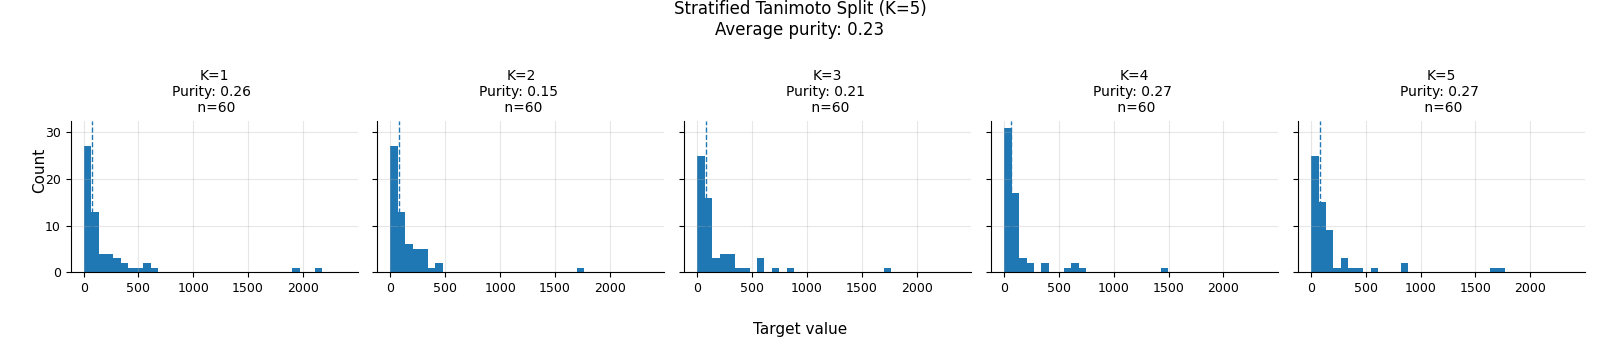
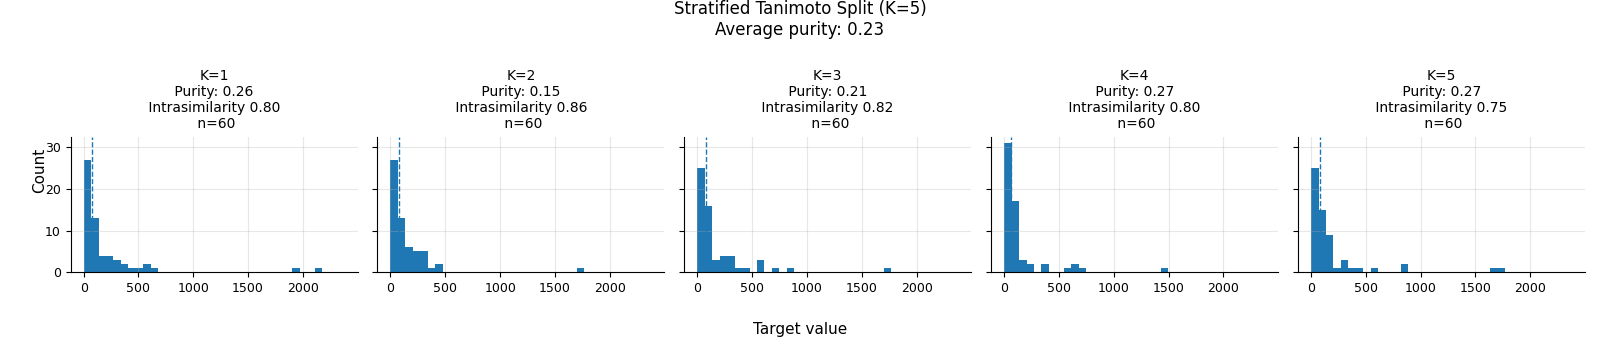
Added computation of the intrasimilarity, fixed the plot.

diff --git a/StratifiedTanimotoSplit.py b/StratifiedTanimotoSplit.py
@@ -6,7 +6,7 @@ def jaccard_distance(x: torch.Tensor, y: torch.Tensor) -> torch.Tensor:
     """
     intersection = torch.sum(x * y).float()
     union = torch.sum((x + y) > 0).float()
-    return  torch.where(union == 0, torch.tensor(0.0), 1.0 - intersection / union )
+    return  torch.where(union == 0, torch.tensor(0.0), 1.0 - intersection / union ) ## 0 very close, 1 very far
 
 def fuzzy_k_medoids_from_distance(X, k, m=2, max_iter=100, random_seed = 42):
     D = torch.vmap(torch.vmap(jaccard_distance, in_dims=(None, 0)), in_dims=(0, None))(X, X)
@@ -41,7 +41,6 @@ def fuzzy_k_medoids_from_distance(X, k, m=2, max_iter=100, random_seed = 42):
         if torch.equal(new_medoids, medoid_indices):
             break
         medoid_indices = new_medoids
-
     return U, medoid_indices
 
 
@@ -83,21 +82,25 @@ class StratifiedTanimotoSplit:
         self.K = K
         ecfp_dataset = [d.ecfp for d in dataset]
         ecfp_dataset = torch.stack(ecfp_dataset)
-        self.labels, medoid_indices = fuzzy_k_medoids_from_distance(ecfp_dataset, k=K, random_seed=random_seed)
+        self.fuzzy_labels, medoid_indices = fuzzy_k_medoids_from_distance(ecfp_dataset, k=K, random_seed=random_seed)
+
 
 
     def split(self, target, smiles = None, return_average_purity=False):
-        assert target.shape[0] == self.labels.shape[0]
+        assert target.shape[0] == self.fuzzy_labels.shape[0]
         train_val_split = []
         average_purity = 0
         purity_list = []
+        similarity_list = []
         for i in range(self.K):
-            train, val, purity = sample_from_cluster_with_impurity_metric(self.labels, target, cluster_id=i,
+            train, val, purity = sample_from_cluster_with_impurity_metric(self.fuzzy_labels, target, cluster_id=i,
                                                                           n_samples=self.n_val_set)
+            intra_similarity = 1 - self.fuzzy_labels[val, i].mean()
+            similarity_list.append(intra_similarity)
             purity_list.append(purity)
             train_val_split.append((train, val))
             average_purity += purity
 
         if return_average_purity:
-            return train_val_split, average_purity / self.K, purity_list
+            return train_val_split, average_purity / self.K, purity_list, similarity_list
         return train_val_split
